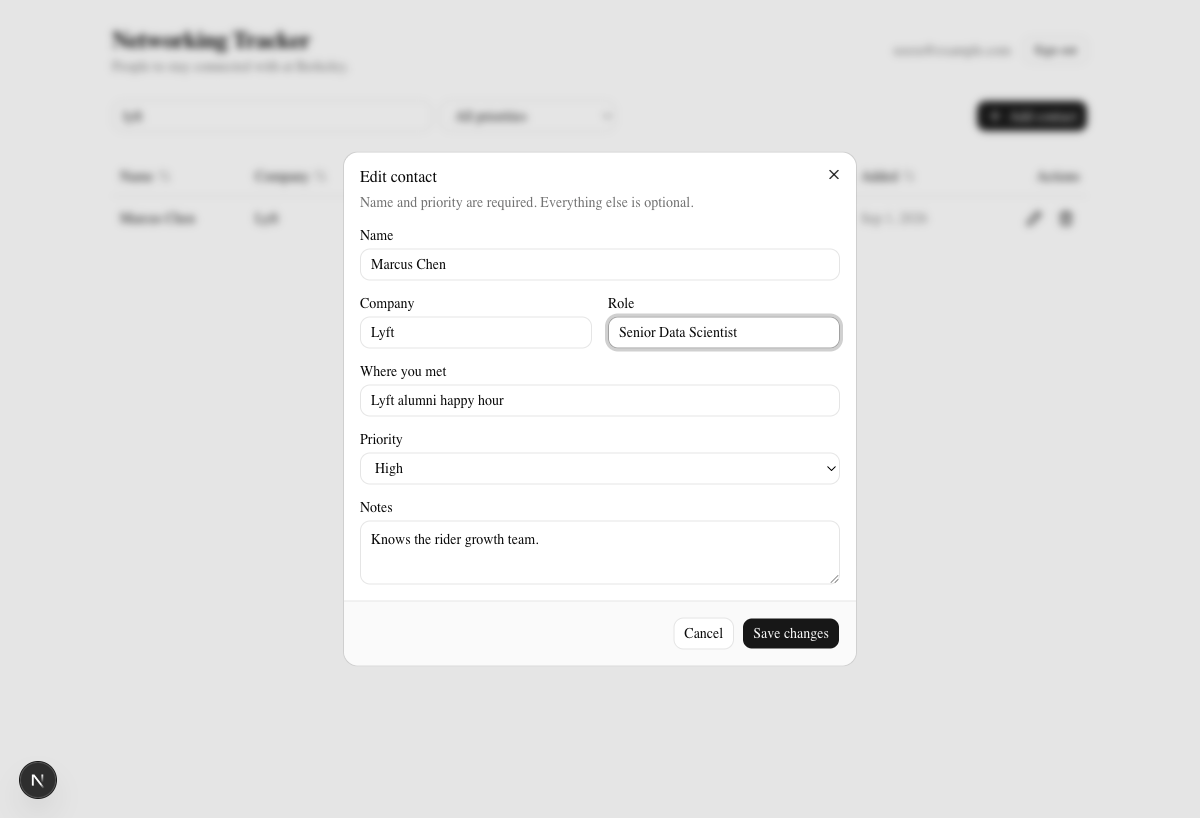
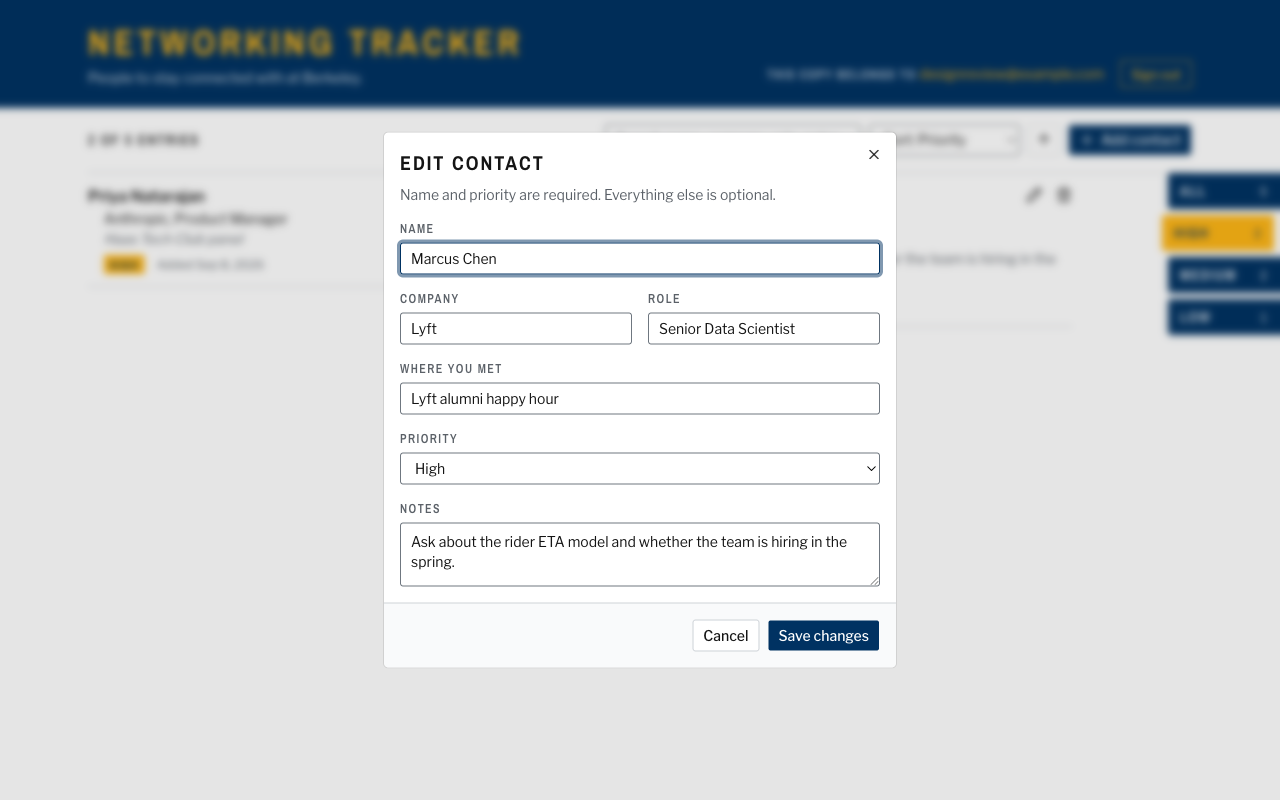
Retake Assignment 1 screenshots on the live site after the redesign
Sixteen of the seventeen README screenshots are recaptured from the
production alias on 2026-09-08 with a review account. User B's empty list
keeps its 2026-09-01 capture and the README says so. The README also names
the new visual system and points at DESIGN.md and PRODUCT.md.

Changed region(s): [[0.0, 0.0, 1.0, 0.8125], [0.0, 0.9375, 0.0617, 0.9688], [0.8017, 0.2188, 0.8325, 0.25]]

diff --git a/assignment-01/README.md b/assignment-01/README.md
@@ -6,7 +6,7 @@ Live app: https://networking-tracker-lyart.vercel.app
 
 ## Screenshots
 
-All screenshots are in `docs/screenshots`. The ones prefixed `prod-` were taken on the live Vercel site, the rest during the local walkthrough on the same database.
+All screenshots are in `docs/screenshots`. Every one of them except the last was retaken on the live Vercel site on 2026-09-08, after the redesign described below, using a review account with a few seeded entries. The last one, User B's empty list, is from the original 2026-09-01 walkthrough and still shows the earlier look, because that account's password is not something I keep and the point of the picture is the empty list rather than the styling.
 
 ![Sign in on the live site](docs/screenshots/prod-01-sign-in.png)
 
@@ -22,22 +22,22 @@ All screenshots are in `docs/screenshots`. The ones prefixed `prod-` were taken 
 
 ![Confirming a delete](docs/screenshots/11-delete-confirm.png)
 
-![User B, signed in on the same site, sees no contacts](docs/screenshots/prod-05-user-b-empty.png)
+![User B, signed in on the same site, sees no contacts (taken 2026-09-01, before the redesign)](docs/screenshots/prod-05-user-b-empty.png)
 
 ## What it does
 
 - Sign up, sign in, and sign out with email and password through Neon's managed Better Auth.
 - Add a contact with name, company, role, where you met, notes, and a priority of high, medium, or low.
-- View contacts in a table that sorts by name, company, priority, or date added, and filters by search text and by priority.
+- View contacts as a directory listing that sorts by name, company, priority, or date added, and filters by search text and by priority.
 - Edit and delete your own contacts, with a confirmation step before a delete.
 - Contacts live in Neon Postgres, so they survive a refresh, a new tab, or a different device.
 - A blank name or a priority outside the allowed set fails with a clear message in the form, and fails again at the database if the form is bypassed.
 - Loading, empty, success, and error states each have their own visible treatment.
-- The layout works on a phone. Below 768px the table stacks into cards with labeled fields.
+- The layout works on a phone. Below 768px the two-column listing becomes one column and the priority filter moves under the running head.
 
 ## Technology stack and why
 
-Next.js 16 with the App Router runs on Vercel, which is the assignment's required host and the path of least friction for a Next.js deploy. The UI uses shadcn/ui components on Tailwind CSS v4, which gave me accessible dialogs, inputs, and tables without writing them from scratch and without a heavy component library. Neon Postgres holds the data, Neon's managed Better Auth issues sessions and JSON Web Tokens, and the Neon Data API exposes the contacts table over HTTPS as a PostgREST endpoint that the browser calls directly. I chose that shape because it keeps the trust boundary in the database, which is where the assignment wants it, and because it means the deployed app never holds a Postgres connection string at all. The single dependency for both auth and data is `@neondatabase/neon-js`. Tests run on Node's built-in test runner, which strips TypeScript types natively on Node 22.18 and later, so there is no test framework to install.
+Next.js 16 with the App Router runs on Vercel, which is the assignment's required host and the path of least friction for a Next.js deploy. The UI uses shadcn/ui components on Tailwind CSS v4, which gave me accessible dialogs and inputs without writing them from scratch and without a heavy component library. On 2026-09-08 I replaced the default look with a visual system of its own, a Berkeley class directory with a blue and gold cover, white listing pages with hanging-indent entries, and the priority filter as a thumb index on the edge of the page. The tokens and rules behind it are written down in `DESIGN.md`, and the product context that shaped it is in `PRODUCT.md`. Neon Postgres holds the data, Neon's managed Better Auth issues sessions and JSON Web Tokens, and the Neon Data API exposes the contacts table over HTTPS as a PostgREST endpoint that the browser calls directly. I chose that shape because it keeps the trust boundary in the database, which is where the assignment wants it, and because it means the deployed app never holds a Postgres connection string at all. The single dependency for both auth and data is `@neondatabase/neon-js`. Tests run on Node's built-in test runner, which strips TypeScript types natively on Node 22.18 and later, so there is no test framework to install.
 
 ## Architecture
 
@@ -57,7 +57,7 @@ Next.js server on Vercel                              Neon Data API (PostgREST)
                                                         Row Level Security on auth.user_id()
 ```
 
-The frontend is a set of client components. The contacts page loads rows, sorts and filters them in memory, and opens a dialog for add and edit. The sign-in and sign-up pages are one shared form.
+The frontend is a set of client components. The contacts page loads rows, sorts and filters them in memory, lays them out as directory entries in two columns on a laptop and one on a phone, and opens a dialog for add and edit. The sign-in and sign-up pages are one shared form.
 
 The server layer is Neon's Next.js auth adapter. The route handler at `app/api/auth/[...path]/route.ts` proxies every auth call to Neon's managed Better Auth service and rewrites the returned session cookie so it is first-party, HttpOnly, and signed with a secret that only the server knows. I route sign-in through that proxy because a cookie set by Neon's own domain is a third-party cookie from the app's point of view, and Safari and Chrome's private windows drop those, which would have logged a grader out on refresh. The `proxy.ts` middleware checks that cookie before the contacts page renders and redirects to the sign-in page otherwise.
 
